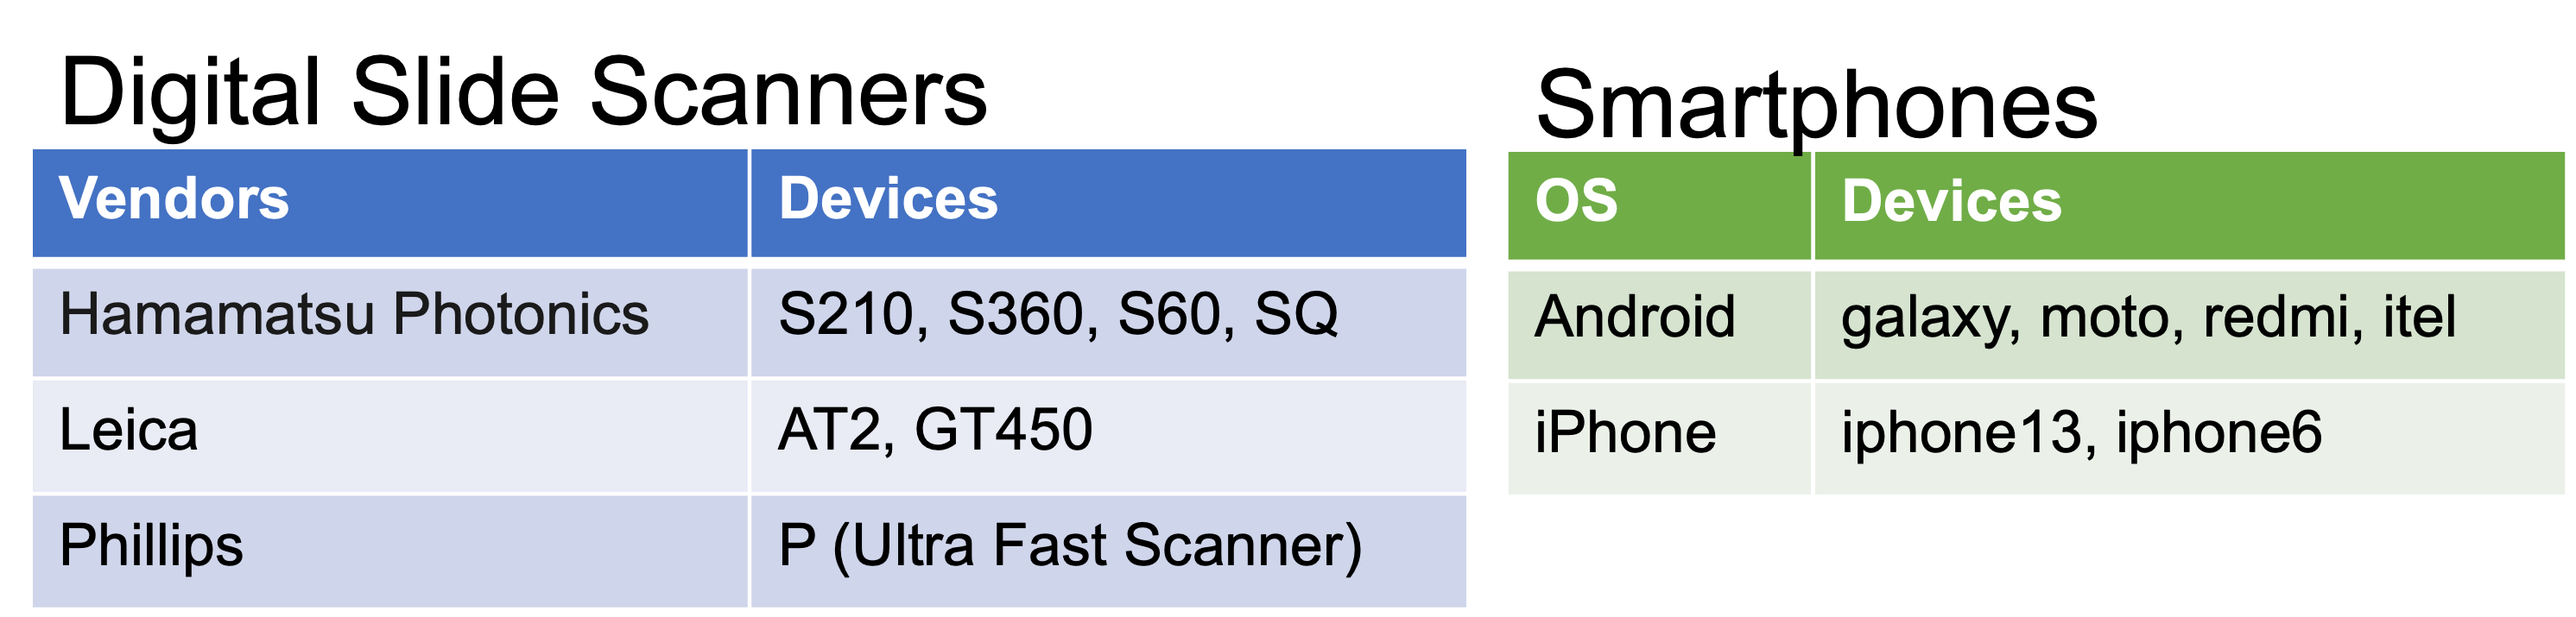
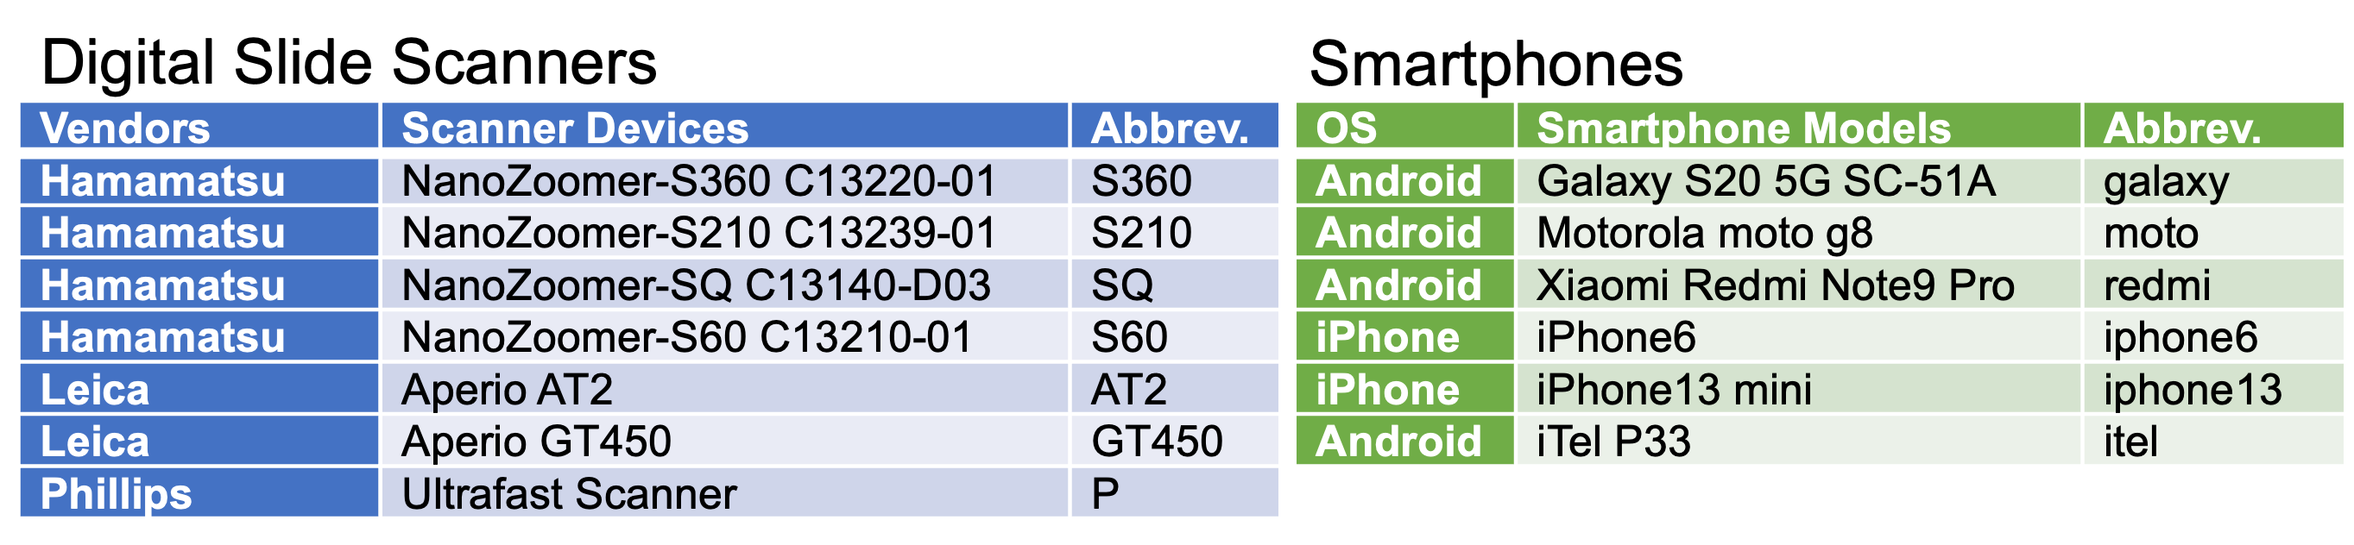
counterpart change

diff --git a/index.html b/index.html
@@ -224,7 +224,7 @@
                       </div>
 
                       <div class="articleTitle">
-                        <a> Correspondence table for each device. </a>
+                        <a> Correspondence tables for each device. </a>
                       </div>
                       <div class="articleText">
                         Left) Abbreviations for whole slide scanner vendors and the devices that correspond to each vendor. Right) Abbreviations for smartphone OS types and corresponding smartphones.
